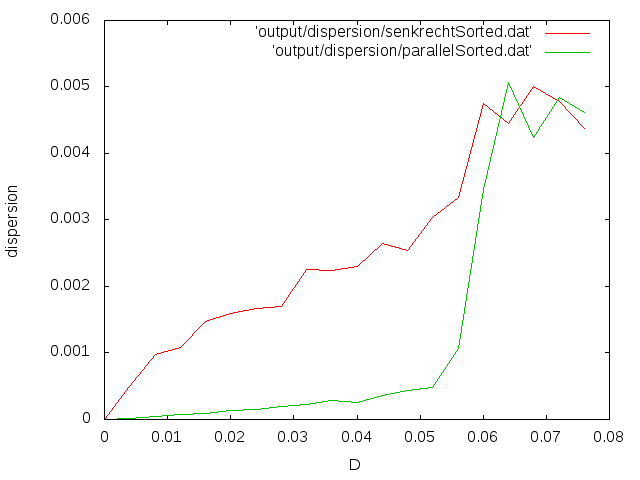
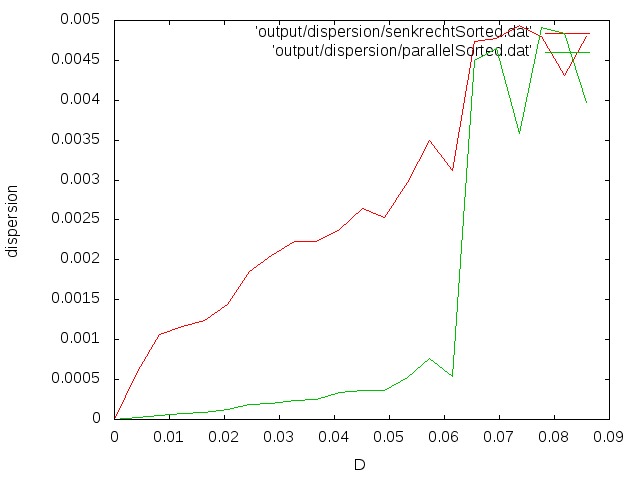
last update for dispersion.png

diff --git a/main.cpp b/main.cpp
@@ -92,8 +92,8 @@ int main()
 
 	// Table for temperatures we want
 	const double temp_Start = 0.000;
-	const double temp_End = 0.080;
-	const int N_temp = 20;
+	const double temp_End = 0.090;
+	const int N_temp = 22;
 	const double d_temp = (temp_End-temp_Start)/N_temp;
 	double temps[N_temp];
 
